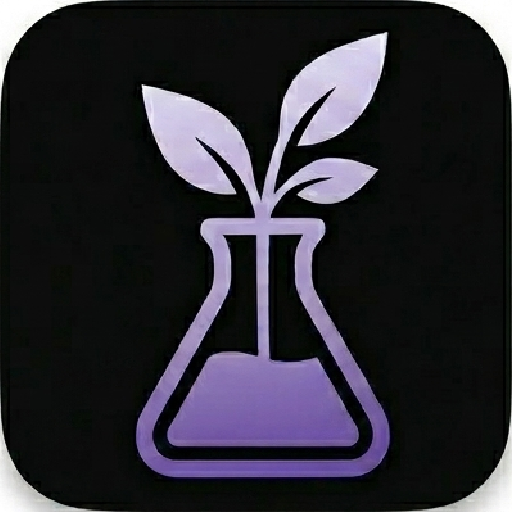
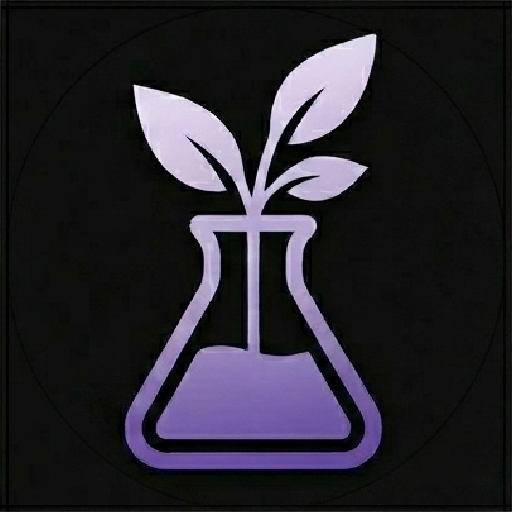
Updates

diff --git a/sw.js b/sw.js
@@ -1,1 +1,1 @@
-if(!self.define){let e,i={};const n=(n,s)=>(n=new URL(n+".js",s).href,i[n]||new Promise(i=>{if("document"in self){const e=document.createElement("script");e.src=n,e.onload=i,document.head.appendChild(e)}else e=n,importScripts(n),i()}).then(()=>{let e=i[n];if(!e)throw new Error(`Module ${n} didn’t register its module`);return e}));self.define=(s,c)=>{const r=e||("document"in self?document.currentScript.src:"")||location.href;if(i[r])return;let o={};const d=e=>n(e,r),a={module:{uri:r},exports:o,require:d};i[r]=Promise.all(s.map(e=>a[e]||d(e))).then(e=>(c(...e),o))}}define(["./workbox-9c191d2f"],function(e){"use strict";self.skipWaiting(),e.clientsClaim(),e.precacheAndRoute([{url:"registerSW.js",revision:"c85fe85348815cef46298755f8890669"},{url:"index.html",revision:"966a460dab4c875871ca1c6b4f656941"},{url:"icons.svg",revision:"3b4fcfcf393eca4d264dca4a4663bc37"},{url:"icon-512.png",revision:"15ab7ec29ce81bd2d72044241a65e6d7"},{url:"icon-512-maskable.png",revision:"370856a266228de72eabacad82c4a217"},{url:"icon-192.png",revision:"3b1ad99971dbb2ce74ed1f2d099ff160"},{url:"favicon.svg",revision:"7e840862161341271697daa99a40d76b"},{url:"favicon.png",revision:"0a29b64c448d1cf6094818e08017c75c"},{url:"assets/index-Dx9O4V-u.js",revision:null},{url:"assets/index-Bcbm_DkG.css",revision:null},{url:"icon-192.png",revision:"3b1ad99971dbb2ce74ed1f2d099ff160"},{url:"icon-512-maskable.png",revision:"370856a266228de72eabacad82c4a217"},{url:"icon-512.png",revision:"15ab7ec29ce81bd2d72044241a65e6d7"},{url:"manifest.webmanifest",revision:"fe20625566c52e0a8ef91f82fcd6464d"}],{}),e.cleanupOutdatedCaches(),e.registerRoute(new e.NavigationRoute(e.createHandlerBoundToURL("index.html")))});
+if(!self.define){let e,i={};const n=(n,c)=>(n=new URL(n+".js",c).href,i[n]||new Promise(i=>{if("document"in self){const e=document.createElement("script");e.src=n,e.onload=i,document.head.appendChild(e)}else e=n,importScripts(n),i()}).then(()=>{let e=i[n];if(!e)throw new Error(`Module ${n} didn’t register its module`);return e}));self.define=(c,s)=>{const r=e||("document"in self?document.currentScript.src:"")||location.href;if(i[r])return;let a={};const o=e=>n(e,r),l={module:{uri:r},exports:a,require:o};i[r]=Promise.all(c.map(e=>l[e]||o(e))).then(e=>(s(...e),a))}}define(["./workbox-9c191d2f"],function(e){"use strict";self.skipWaiting(),e.clientsClaim(),e.precacheAndRoute([{url:"registerSW.js",revision:"c85fe85348815cef46298755f8890669"},{url:"index.html",revision:"966a460dab4c875871ca1c6b4f656941"},{url:"icons.svg",revision:"3b4fcfcf393eca4d264dca4a4663bc37"},{url:"icon-512.png",revision:"370856a266228de72eabacad82c4a217"},{url:"icon-512-maskable.png",revision:"370856a266228de72eabacad82c4a217"},{url:"icon-192.png",revision:"31289b6be03e20bc35ac4cb86509ab65"},{url:"favicon.svg",revision:"7e840862161341271697daa99a40d76b"},{url:"favicon.png",revision:"0a29b64c448d1cf6094818e08017c75c"},{url:"assets/index-Dx9O4V-u.js",revision:null},{url:"assets/index-Bcbm_DkG.css",revision:null},{url:"icon-192.png",revision:"31289b6be03e20bc35ac4cb86509ab65"},{url:"icon-512-maskable.png",revision:"370856a266228de72eabacad82c4a217"},{url:"icon-512.png",revision:"370856a266228de72eabacad82c4a217"},{url:"manifest.webmanifest",revision:"fe20625566c52e0a8ef91f82fcd6464d"}],{}),e.cleanupOutdatedCaches(),e.registerRoute(new e.NavigationRoute(e.createHandlerBoundToURL("index.html")))});